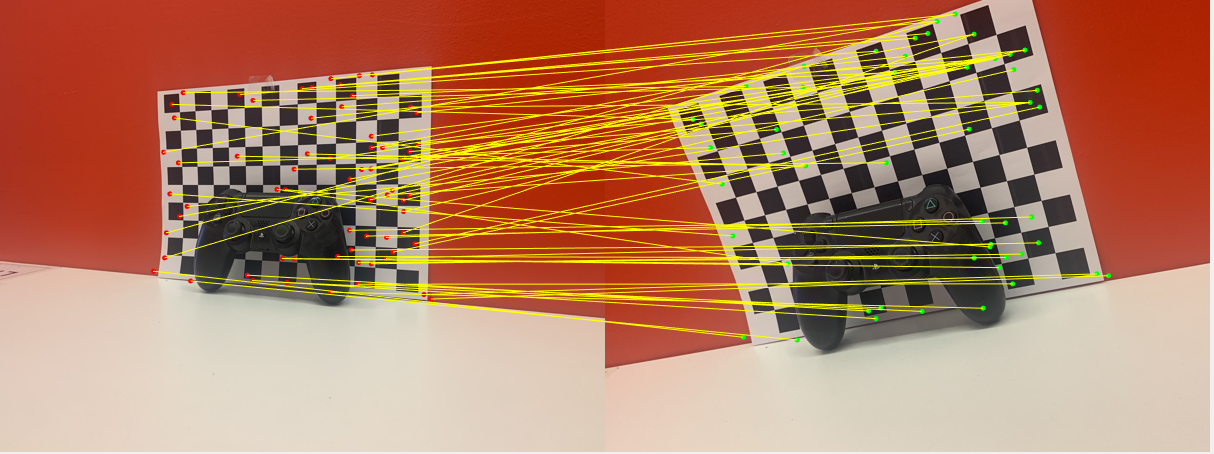
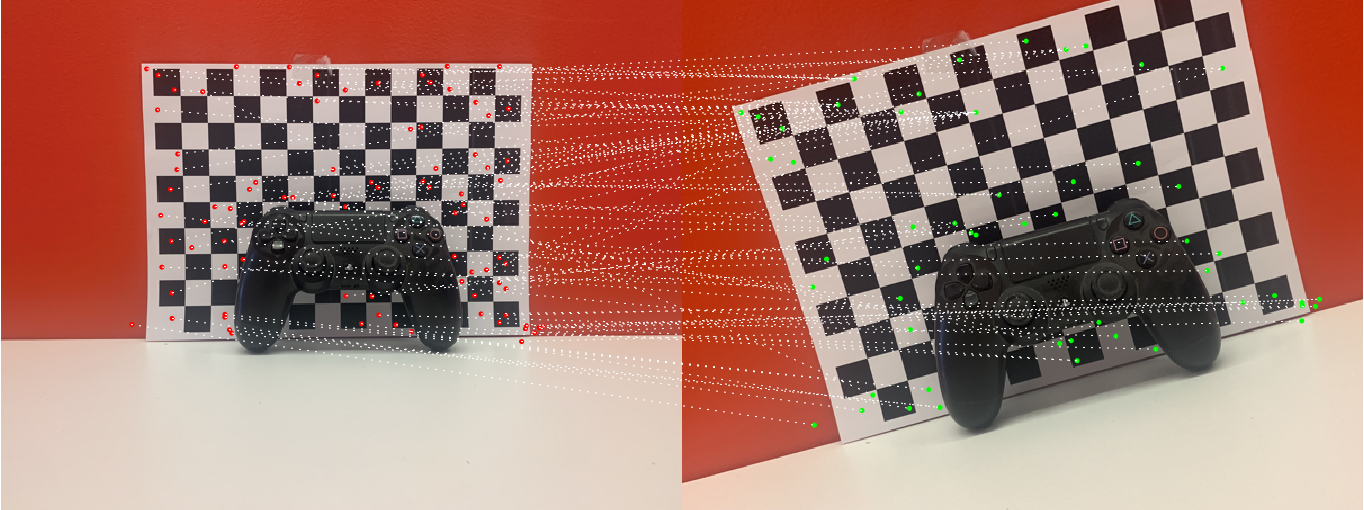
cropped images

diff --git a/CV Coursework/manual_automatic_correspondance.m b/CV Coursework/manual_automatic_correspondance.m
@@ -9,8 +9,8 @@ fd_path = 'Photos/Grid/FD/';
 hg_path = 'Photos/Grid/HG/';
 
 % Load and resize images for display (using color versions for visualization)
-I1_color = imresize(imread([fd_path '2.jpg']), 0.15);
-I2_color = imresize(imread([hg_path '2.jpg']), 0.15);
+I1_color = imresize(imread([fd_path '1.jpg']), 0.15);
+I2_color = imresize(imread([hg_path '1.jpg']), 0.15);
 
 % Also prepare grayscale images for automatic feature detection
 I1_gray = rgb2gray(I1_color);
@@ -90,7 +90,7 @@ matchedPoints2_auto = validPoints2_auto(indexPairs(:, 2));
 % Display automatic matches
 figure;
 showMatchedFeatures(I1_color, I2_color, matchedPoints1_auto.Location, matchedPoints2_auto.Location, ...
-    'montage', 'PlotOptions', {'r.','g.','y-'});
+    'montage', 'PlotOptions', {'r.','g.','w:'});
 title('Automatic Matched Features');
 
 % Estimate projective transformation using automatic matches
